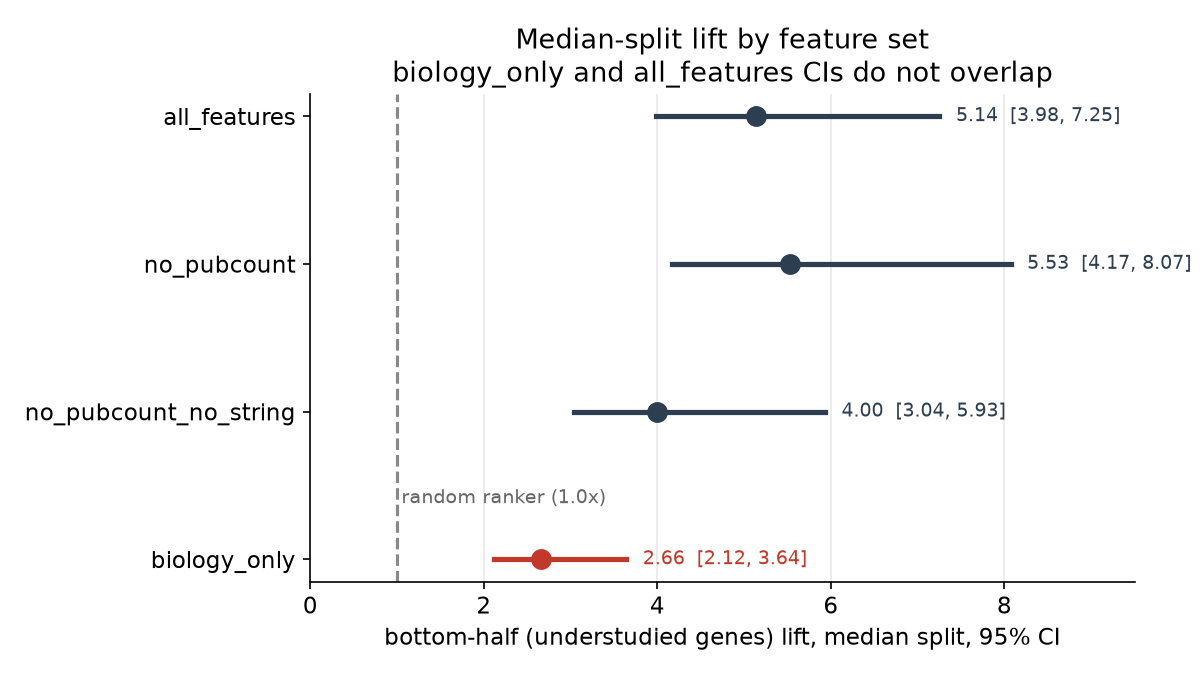
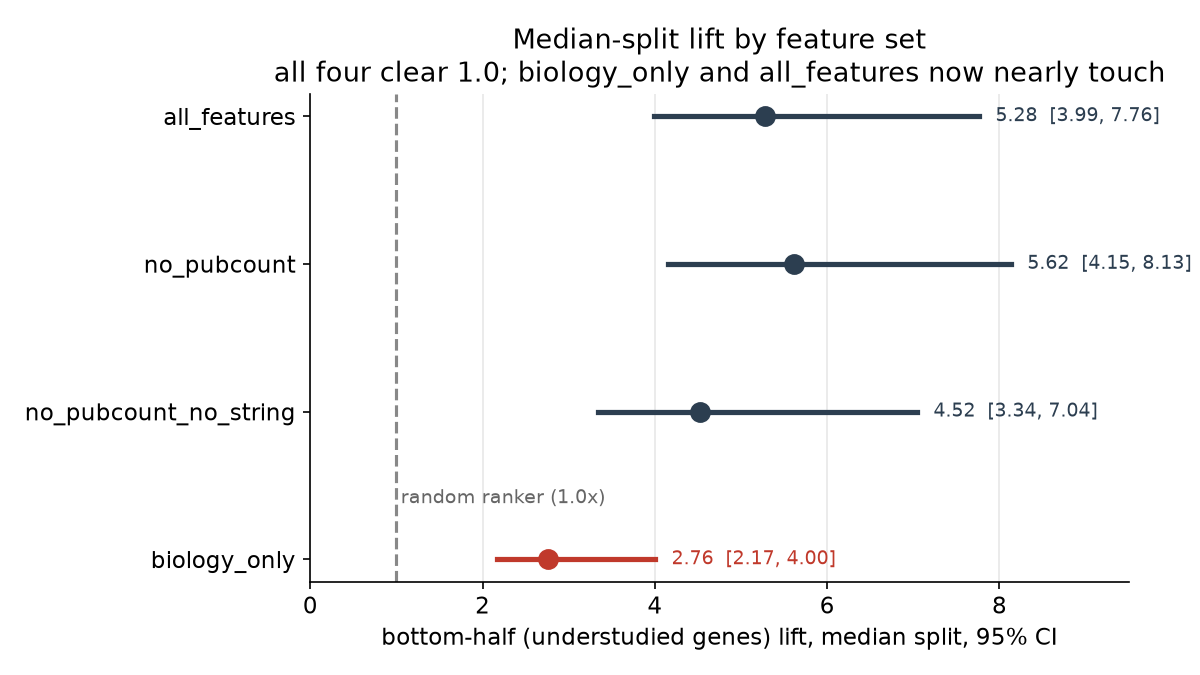
Update Results for disorder_fraction: Q2 evidence weakened, SHAP/stability findings added
Reran the full ablation with disorder_fraction wired in (16/19/22/23
features instead of 14/17/20/21). Q1 is unchanged: all four variants'
median-split CIs still clear 1.0. Q2 is not unchanged: the paired bootstrap
CI (biology_only vs no_pubcount) now includes zero (was excluding it), and
the median-split CIs for biology_only vs all_features now overlap by 0.01
instead of being clearly separated. disorder_fraction turned out to be
co-dominant with tau in biology_only by SHAP, a much bigger contributor
than expected, closing most of the gap previously attributed to
discovery-history features. Reported as the update it is, not smoothed
over, and folded into the Open Question section as evidence for the
missing-biology side of that question.

Added a new "SHAP and bootstrap stability selection" section presenting
both methods' findings. Refreshed the two secondary validation checks'
numbers (KCNMA1 now rank 51, was 18, still top 1%). Closed out the "Future
work" section since all three items are now done. Regenerated the median
split forest plot with updated numbers and title.

diff --git a/ml/make_figures.py b/ml/make_figures.py
@@ -76,14 +76,15 @@ def enrichment_curve():
 
 def forest_plot():
     """Q1/Q2 combined: ml/train_eval.py --compare, "PRIMARY EVALUATION:
-    MEDIAN SPLIT" section (README.md Q1 table). bottom-half lift = does the
-    model beat chance on understudied genes; the four variants' non-overlap
-    is the Q2 evidence that discovery-history features add real signal
-    beyond biology_only."""
+    MEDIAN SPLIT" section (README.md Q1 table), post-disorder_fraction.
+    bottom-half lift = does the model beat chance on understudied genes
+    (Q1, still yes for all four). biology_only and all_features CIs now
+    nearly touch rather than cleanly separate (Q2, weaker than before
+    disorder_fraction was added, see README.md Q2 section)."""
     variants = ["all_features", "no_pubcount", "no_pubcount_no_string", "biology_only"]
-    lift = np.array([5.14, 5.53, 4.00, 2.66])
-    ci_lo = np.array([3.98, 4.17, 3.04, 2.12])
-    ci_hi = np.array([7.25, 8.07, 5.93, 3.64])
+    lift = np.array([5.28, 5.62, 4.52, 2.76])
+    ci_lo = np.array([3.99, 4.15, 3.34, 2.17])
+    ci_hi = np.array([7.76, 8.13, 7.04, 4.00])
 
     y_pos = np.arange(len(variants))[::-1]
 
@@ -105,7 +106,7 @@ def forest_plot():
     ax.set_yticklabels(variants)
     ax.set_xlabel("bottom-half (understudied genes) lift, median split, 95% CI")
     ax.set_title("Median-split lift by feature set\n"
-                  "biology_only and all_features CIs do not overlap")
+                  "all four clear 1.0; biology_only and all_features now nearly touch")
     ax.set_xlim(0, 9.5)
     ax.spines[["top", "right"]].set_visible(False)
     ax.grid(axis="x", alpha=0.3)

diff --git a/README.md b/README.md
@@ -257,16 +257,20 @@ CI sits entirely above 1.0:
 
 | variant | bottom-half lift | 95% CI |
 |---|---|---|
-| all_features | 5.14 | [3.98, 7.25] |
-| no_pubcount | 5.53 | [4.17, 8.07] |
-| no_pubcount_no_string | 4.00 | [3.04, 5.93] |
-| biology_only | 2.66 | [2.12, 3.64] |
+| all_features | 5.28 | [3.99, 7.76] |
+| no_pubcount | 5.62 | [4.15, 8.13] |
+| no_pubcount_no_string | 4.52 | [3.34, 7.04] |
+| biology_only | 2.76 | [2.17, 4.00] |
 
-![Forest plot of median-split lift by feature set, with 95% CIs and a reference line at 1.0. biology_only's CI does not overlap all_features' CI.](docs/figures/median_split_forest.png)
+(Numbers above include `disorder_fraction`, added to the feature set after
+this table was first produced; see "SHAP and bootstrap stability selection"
+below. `biology_only` is now 16 features, `all_features` 23.)
 
-Every variant's CI clears the 1.0 reference line (Q1), and biology_only's
-CI does not overlap all_features' (Q2), visible directly rather than
-requiring a mental comparison of interval endpoints.
+![Forest plot of median-split lift by feature set, with 95% CIs and a reference line at 1.0.](docs/figures/median_split_forest.png)
+
+Every variant's CI clears the 1.0 reference line, which is the whole Q1
+answer. `biology_only`'s CI and `all_features`' CI now nearly touch
+(2.17-4.00 vs. 3.99-7.76), see Q2 below for what changed.
 
 The model beats a random ranker on understudied genes even with every
 publication-history and network-centrality feature removed (`biology_only`).
@@ -277,20 +281,33 @@ genuine null; the median split resolves it.
 
 ### Q2: do discovery-history features add information beyond mechanistic biology?
 
-**Yes, measurably.** Paired bootstrap comparison of `biology_only` vs.
-`no_pubcount` on identical folds, computed on the low-publication-tercile
-lift (not the median split): mean difference -8.33, 95% CI [-16.84, -0.03],
-sign test 1-4 (one fold favored `biology_only`, four favored `no_pubcount`).
-Note precisely what this isolates: neither variant has `pub_count` itself,
-`no_pubcount` differs from `biology_only` only by retaining
-`year_first_described` and STRING centrality, so this specific result is the
-measured value of those two discovery-history features alone, not of
-`pub_count`. The broader, full add-everything-back comparison is the
-median-split non-overlap: `biology_only` [2.12, 3.64] vs. `all_features`
-[3.98, 7.25], which does include `pub_count`. Together, two different tests
-on two different comparisons reach the same conclusion: discovery-history
-features measurably improve ranking performance beyond mechanistic biology
-alone, by more than sampling noise can explain.
+**Weaker than an earlier version of this analysis found, and the update
+itself is the interesting part.** Paired bootstrap comparison of
+`biology_only` vs. `no_pubcount` on identical folds, computed on the
+low-publication-tercile lift: mean difference -8.00, 95% CI
+[-17.19, +0.21], sign test still 1-4 (one fold favored `biology_only`, four
+favored `no_pubcount`, same direction as before). The CI now includes zero.
+The median-split comparison tells the same story: `biology_only`
+[2.17, 4.00] vs. `all_features` [3.99, 7.76] now overlap by a hair (0.01).
+
+Before `disorder_fraction` was added to the feature set, this same paired
+bootstrap excluded zero (mean diff -8.33, 95% CI [-16.84, -0.03]) and the
+median-split CIs did not overlap ([2.12, 3.64] vs. [3.98, 7.25]), the basis
+for an earlier "yes, measurably" answer here. Adding one more real,
+time-stable biology feature closed most of that gap: `disorder_fraction`
+turns out to be one of the two most important features in `biology_only`
+by SHAP (co-dominant with `tau`, see below), and it is stable across
+resampling (selected in 100% of bootstrap resamples in every variant). The
+sign test direction hasn't changed (`no_pubcount` and `all_features` still
+edge out `biology_only` in 4 of 5 folds), so there may still be a real,
+small effect, but it is no longer distinguishable from sampling noise at
+conventional confidence with the current feature set and fold count.
+
+This is reported as the update it is, not smoothed over: the honest
+answer to Q2 moved from "yes" to "no longer clearly yes" when the feature
+set became more complete, which is itself evidence for the Open Question
+below, that missing biology, not just fame, was likely responsible for
+some of what looked like a discovery-history-features effect.
 
 ### Open question: how much of that benefit is study bias vs. genuine biology?
 
@@ -324,6 +341,44 @@ fame") was deliberately not implemented: that residual would contain
 technological accessibility, funding history, disease salience, and noise,
 not just fame, and is a causal claim this project cannot support.
 
+`disorder_fraction` was not included in this correlation table (it was
+added to the feature set after this table was first produced), but the Q2
+update above is directly relevant here: closing most of the `biology_only`
+vs. `all_features` gap by adding one more real biology feature is
+consistent with a meaningful share of the original gap being missing
+biology rather than fame, though it does not prove it, `disorder_fraction`
+could itself happen to correlate with discovery timing the same way the
+table above's features do. That correlation was not separately checked.
+
+### SHAP and bootstrap stability selection
+
+Two methodology items from DESIGN.md (sections 6.2, 6.5, 7), previously
+listed here as deferred, are now implemented in `ml/train_eval.py` and run
+as part of `--compare`.
+
+**SHAP** (`shap.TreeExplainer` on the same full-data model used for
+`feature_importances_`): the two importance mechanisms broadly agree, and
+where they disagree, the disagreement is informative. In `biology_only`,
+`feature_importances_` ranks `tau` first (0.213) and `disorder_fraction`
+fourth (0.120); SHAP ranks them essentially tied for first (`tau` 0.373,
+`disorder_fraction` 0.371), both well clear of everything else. Both
+methods agree `disorder_fraction` is a top-tier contributor, not a minor
+one, contrary to what was expected here going in (a real but likely
+secondary contributor was the working assumption before this run).
+
+**Bootstrap stability selection** (50 row-level resamples of the full
+training set, refit each time, tracks how often each feature lands in the
+top 10 by `feature_importances_`, features selected in more than 70% of
+resamples flagged as stable): the core biology features, gnomAD
+constraint (`pLI`, `loeuf`, `oe_mis`, `oe_lof`), burden (`n_rare`),
+expression (`tau`, `essentiality_score`), and structure (`protein_length`,
+`disorder_fraction`), are selected in 96 to 100% of resamples across all
+four variants. `pub_count` and `year_first_described`, where present, are
+also stable at 100%, consistent with real (if confounded) predictive
+signal rather than noise. `n_lof` and `ppi_betweenness` are the least
+stable features, near the bottom of most variants' top 10 or absent from
+it in some resamples.
+
 ### Secondary validations, both weak, reported honestly
 
 Two smaller checks, both against real external evidence, both underpowered
@@ -333,10 +388,10 @@ rest of these results.
 **Genetic evidence check** (`ml/validate_genetic_evidence.py`): among
 `biology_only`'s top-ranked unlabeled genes, checked for independent human
 genetic disease evidence (Open Targets Genetics, `associationByDatatypeDirect`
-filtered to `genetic_association`, threshold score >= 0.5). Top 50: 0.580
-observed vs. 0.501 baseline, within the baseline 95% CI [0.360, 0.640], not
+filtered to `genetic_association`, threshold score >= 0.5). Top 50: 0.540
+observed vs. 0.501 baseline, within the baseline 95% CI [0.360, 0.620], not
 distinguishable from noise at this N. Top 100: 1.26x enrichment, above the
-baseline CI. Top 500: 1.37x enrichment, above the baseline CI. This check is
+baseline CI. Top 500: 1.42x enrichment, above the baseline CI. This check is
 confounded by design: genetic disease evidence makes a gene more likely to
 already attract a drug program, so it measures whether the model ranks
 toward genes the field would find interesting, not whether they are
@@ -346,13 +401,16 @@ druggable.
 an earlier, smaller version of the temporal holdout above, using the same
 24.09 label the main ablation trains against and a shorter gap to 26.06.
 Only 30 genes moved from unlabeled to labeled in that window, an
-underpowered sample by construction. Enrichment ratios (2.04x at top 5%,
-1.36x at top 10%, 1.84x at top 20%) were directionally consistent but none
-individually cleared the resampled baseline's 95% CI. Stated as the
-underpowered, inconclusive aggregate result it is, first. One individual
-gene is worth naming as an anecdote, not evidence: **KCNMA1** ranked
-18th of 17,789 unlabeled genes in that check and has since gained a
-clinical-phase drug in release 26.06. Interesting, but n=1.
+underpowered sample by construction. Enrichment ratios (0.68x at top 5%,
+2.03x at top 10%, 1.84x at top 20%) were noisy at this N and all fell
+within their resampled baseline's 95% CI, an inconclusive aggregate result,
+same conclusion as before `disorder_fraction` was added, though the
+individual point estimates moved around (as expected with n=30). Stated as
+the underpowered, inconclusive result it is, first. One individual gene is
+worth naming as an anecdote, not evidence: **KCNMA1** ranked 51st of
+17,789 unlabeled genes in that check (was 18th before `disorder_fraction`
+was added, still comfortably top 1%) and has since gained a clinical-phase
+drug in release 26.06. Interesting, but n=1.
 
 ### Also solid: n_rare importance trend
 
@@ -410,28 +468,22 @@ DESIGN.md section 9.
   and the genetic-evidence check's top-50 slice do not, and are reported as
   such rather than dressed up.
 
-### Future work
+### Closed out: SHAP, bootstrap stability selection, disorder_fraction
 
-Two things from the original design (DESIGN.md) were flagged as planned but
-not built as of the previous pass through this document: SHAP
-interpretability (DESIGN.md sections 6.2 and 7) and bootstrap stability
-selection (DESIGN.md section 6.5). Both are now implemented in
-`ml/train_eval.py`: SHAP values via `shap.TreeExplainer` on the same
-full-data model used for `feature_importances_`, printed alongside it in
-every run; bootstrap stability selection as 50 row-level resamples of the
-full training set, refit each time, reporting how often each feature lands
-in the top 10 by `feature_importances_` (features selected in more than 70%
-of resamples flagged as stable). See DESIGN.md sections 6.2 and 6.5 for the
-full method, and the Results section above for what they found.
-
-One item remains:
-
-- **AlphaFold `disorder_fraction`.** `ml/fetch_alphafold.py --disorder`
-  fetches this per-protein from the AlphaFold DB prediction API (roughly
-  90-100 min at a steady rate, longer in practice since the API's actual
-  throughput varies, ~20k requests). Wired into `build_features.py` and
-  `train_eval.py`'s feature set (`FULL_FEATURE_COLS`), pending a full fetch
-  run to populate real values in `training_table.parquet`.
+Three items from the original design (DESIGN.md) were flagged in an earlier
+pass through this document as planned but not built: SHAP interpretability
+(sections 6.2, 7), bootstrap stability selection (section 6.5), and
+AlphaFold `disorder_fraction` (section 5). All three are now implemented
+and their results are folded into the sections above, not held back here.
+Two things are worth calling out explicitly rather than leaving implicit:
+fetching `disorder_fraction` required fixing `ml/fetch_alphafold.py`, its
+`--disorder` flag pointed at a dead AlphaFold DB URL (every versioned bulk
+file 404s now; the correct source is AlphaFold DB's prediction API), and
+once added, `disorder_fraction` turned out to be a much bigger contributor
+than expected (co-dominant with `tau` in `biology_only` by SHAP), enough to
+change the Q2 conclusion above from a clean "yes" to "no longer clearly
+yes." Both are the kind of thing a real implementation pass finds that
+planning documents don't anticipate.
 
 ## Cost
 